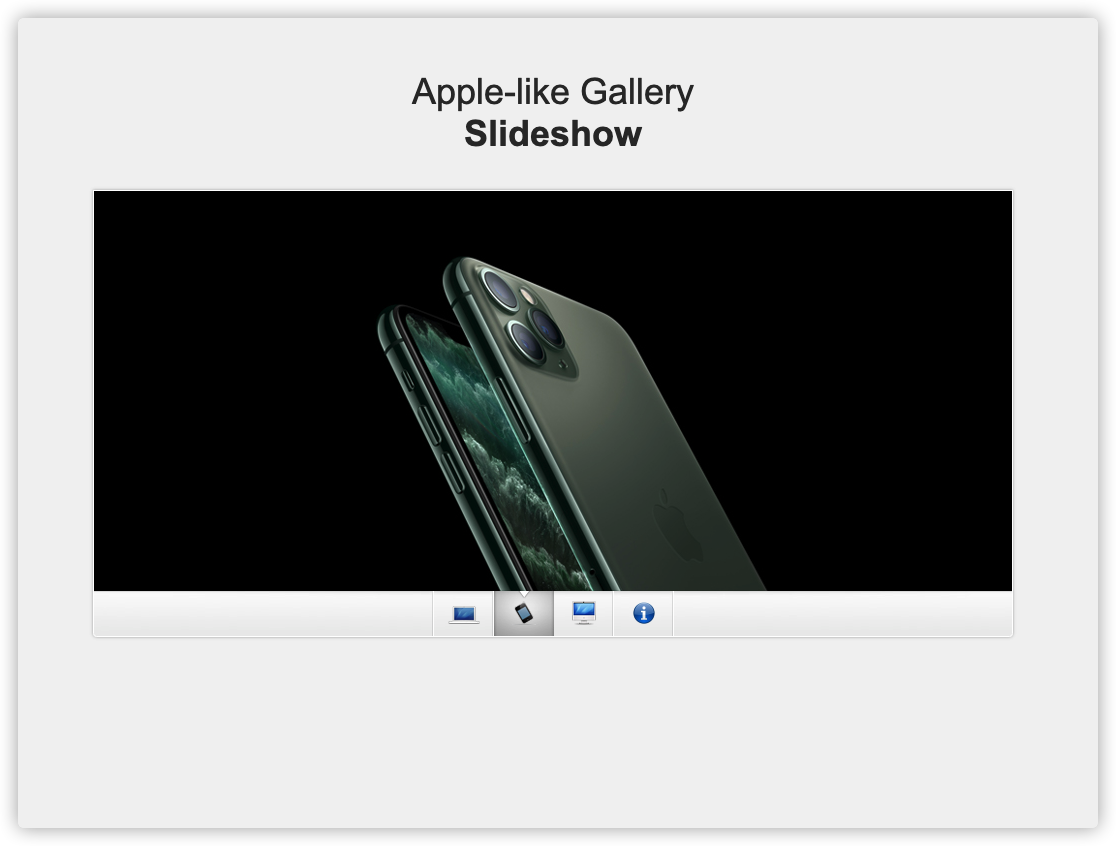
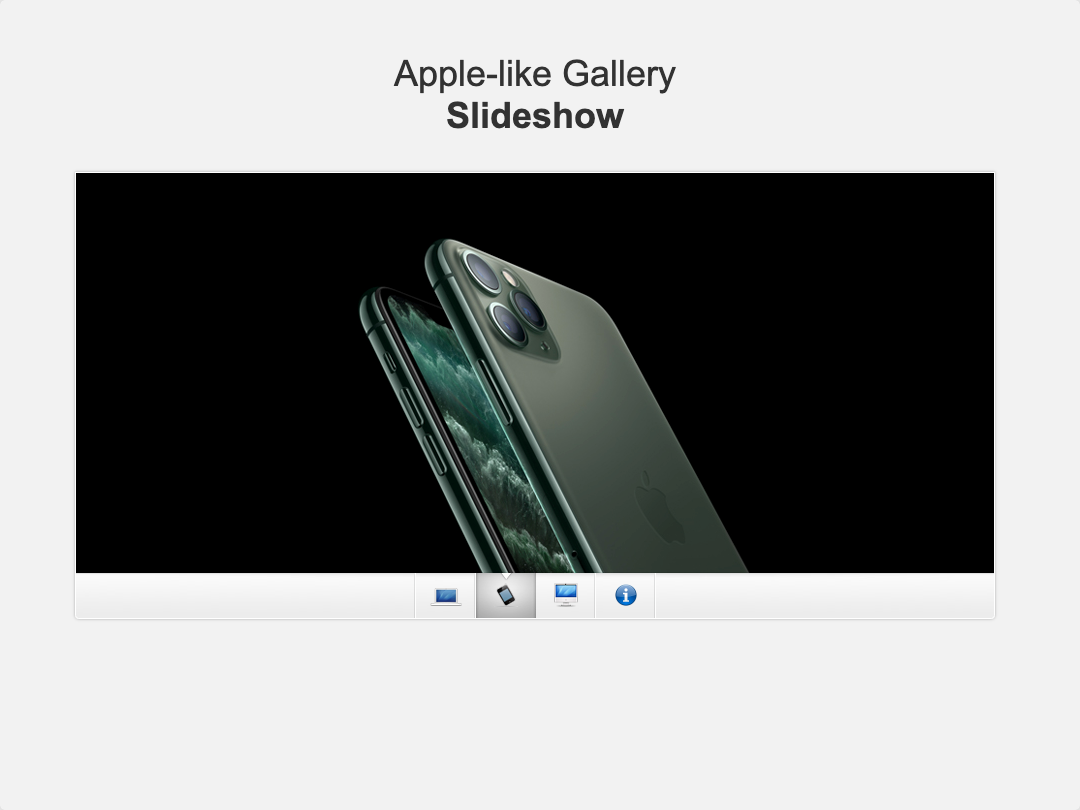
添加轮播，删除loading动画

diff --git a/resume/index.html b/resume/index.html
@@ -5,17 +5,10 @@
     <meta charset="UTF-8">
     <meta name="viewport" content="width=device-width, initial-scale=1.0">
     <meta http-equiv="X-UA-Compatible" content="ie=edge">
+    <link rel="stylesheet" href="https://unpkg.com/swiper/swiper-bundle.min.css">
     <link rel="stylesheet" href="./main.css">
-    <!-- <link rel="stylesheet" href="./loading.css"> -->
     <script src="//at.alicdn.com/t/font_1094467_foaohx3uxkr.js"></script>
     <style type="text/css">
-        .swiper-container {
-            width: 600px;
-            height: 300px;
-        }
-        .swiper-slide {
-            background: #fff;
-        }
 
         .icon {
             width: 1em;
@@ -23,64 +16,6 @@
             vertical-align: -0.15em;
             fill: currentColor;
             overflow: hidden;
-        }
-
-        .loading-wrapper {
-            display: none;
-            position: fixed;
-            top: 0;
-            left: 0;
-            width: 100%;
-            height: 100%;
-            background: rgb(220, 220, 223);
-            z-index: 1;
-            /* display: flex; */
-            justify-content: center;
-            align-items: center;
-        }
-
-        .loading-wrapper.active {
-            display: flex;
-        }
-
-        .loading {
-            width: 200px;
-            height: 200px;
-            position: relative;
-        }
-
-        .loading::before,
-        .loading::after {
-            content: '';
-            position: absolute;
-            width: 10px;
-            height: 10px;
-            background: #27A79A;
-            border-radius: 50%;
-            top: 0;
-            right: 0;
-            bottom: 0;
-            left: 0;
-            margin: auto;
-            animation: s 1.2s linear infinite;
-        }
-
-        .loading::after {
-            animation-delay: 0.6s;
-        }
-
-        @keyframes s {
-            0% {
-                width: 0;
-                height: 0;
-                opacity: 1;
-            }
-
-            100% {
-                width: 100px;
-                height: 100px;
-                opacity: 0;
-            }
         }
     </style>
     <title>我的网页</title>
@@ -268,20 +203,26 @@
                 portfolioBar.className = 'bar state-3'
             }
         </script>
-        <div class="works" style="height: 576px; margin-bottom: 120px;">
-            <div class="big" style="top: 0; left: 0;">
-                <img src="./image/1.jpg" alt="">
+        <!-- Slider main container -->
+        <div class="swiper-container">
+            <!-- Additional required wrapper -->
+            <div class="swiper-wrapper">
+                <!-- Slides -->
+                <img src="./image/bookmarks.png" class="swiper-slide">
+                <img src="./image/canvas.png" class="swiper-slide">
+                <img src="./image/appleslideshow.png" class="swiper-slide">
             </div>
-            <div class="small" style="top: 0; left: 624px;">
-                <img src="./image/2.jpg" alt="">
-            </div>
-            <div class="small" style="top: 298px; left: 624px;">
-                <img src="./image/3.jpg" alt="">
-            </div>
+            <!-- If we need pagination -->
+            <div class="swiper-pagination"></div>
+
+            <!-- If we need navigation buttons -->
+            <div class="swiper-button-prev"></div>
+            <div class="swiper-button-next"></div>
+
         </div>
     </section>
     <script src="TWEEN.js"></script>
-    <script src="https://unpkg.com/swiper/js/swiper.min.js"> </script>
+    <script src="https://unpkg.com/swiper/swiper-bundle.min.js"></script>
     <script>
         var mySwiper = new Swiper ('.swiper-container', {
           // Optional parameters

diff --git a/resume/main.css b/resume/main.css
@@ -331,6 +331,7 @@ section.skills.offset .progress{
 
 section.portfolio{
     text-align: center;
+    margin-bottom: 64px;
 }
 section.portfolio > nav{
     display: inline-block;
@@ -375,12 +376,16 @@ section.portfolio > nav .bar.state-3 .bar-inner{
     margin-left: 143px;
     width: 100px;
 }
-section.portfolio .works{
-    position: relative;
-    /* border: #27A79A 1px solid; */
+section.portfolio .swiper-container{
+    width: 940px;
 }
-section.portfolio .works > .big,
-section.portfolio .works > .small{
-    position: absolute;
-    padding: 0 10px 20px;
+section.portfolio .swiper-container .swiper-slide{
+    background: #fff;
+}
+section.portfolio .swiper-button-prev,
+section.portfolio .swiper-button-next{
+    background-color: rgba(0, 0, 0, 0.25);
+    padding: 10px;
+    color: seashell;
+    border-radius: 2px;
 }
